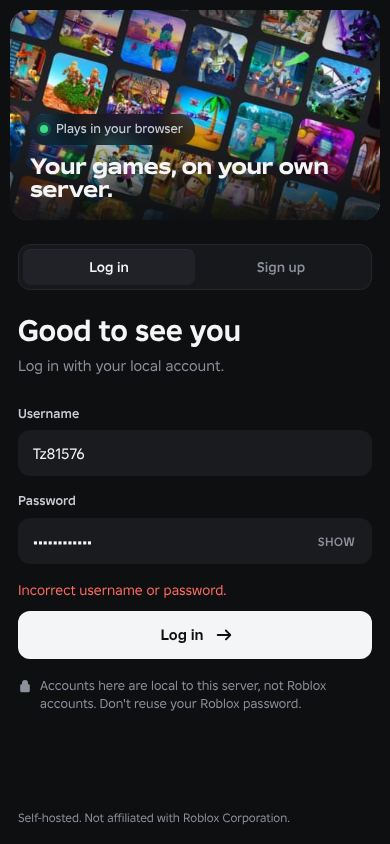
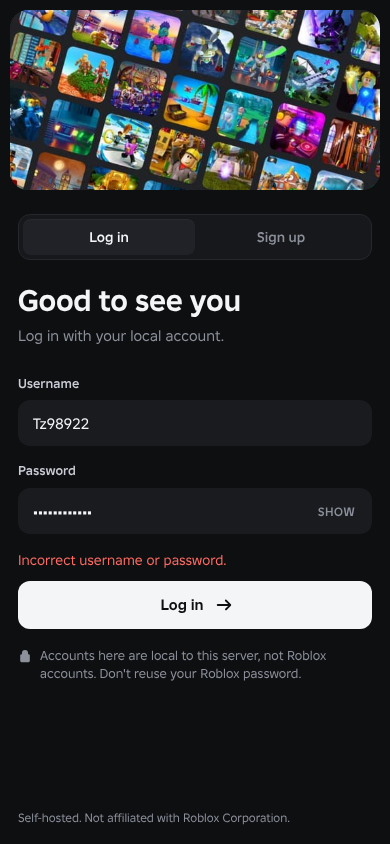
Login page: drop the wordmark and the photo caption
No logo, no headline or badge over the games collage: the frame shows only
the photo.

Claude-Session: https://claude.ai/code/session_01Wp2Bm4qWJKqm9CfQuMmByv

Changed region(s): [[0.0, 0.0, 0.9846, 0.8626], [0.8, 0.5853, 0.9231, 0.6469]]

diff --git a/webclient/pages/login.html b/webclient/pages/login.html
@@ -31,24 +31,13 @@
 
   /* A framed window onto the games collage, not a full-page backdrop. */
   .showcase { position: relative; overflow: hidden; border-radius: 22px; background: #1d1e22; isolation: isolate; }
-  .showcase::before { content: ""; position: absolute; inset: 0; z-index: -2; background: url(/pages/assets/games.jpg) 40% center / cover no-repeat;
+  .showcase::before { content: ""; position: absolute; inset: 0; background: url(/pages/assets/games.jpg) 40% center / cover no-repeat;
     animation: pan 30s ease-in-out infinite alternate; }
-  .showcase::after { content: ""; position: absolute; inset: 0; z-index: -1;
-    background: linear-gradient(180deg, rgba(14, 15, 17, .35) 0%, rgba(14, 15, 17, 0) 28%, rgba(14, 15, 17, 0) 50%, rgba(14, 15, 17, .92) 100%); }
   @keyframes pan { from { transform: scale(1.06) translate(-1.5%, 1%); } to { transform: scale(1.12) translate(1.5%, -1%); } }
   @media (prefers-reduced-motion: reduce) { .showcase::before { animation: none; } }
-  .showcase-copy { position: absolute; left: 0; right: 0; bottom: 0; padding: 36px 40px; }
-  .chip { display: inline-flex; align-items: center; gap: 8px; padding: 6px 12px 6px 10px; border-radius: 999px; background: rgba(14, 15, 17, .6);
-    backdrop-filter: blur(8px); -webkit-backdrop-filter: blur(8px); color: var(--soft); font-size: 13px; font-weight: 500; }
-  .chip i { width: 8px; height: 8px; border-radius: 50%; background: #3ddc84; box-shadow: 0 0 0 3px rgba(61, 220, 132, .2); }
-  .showcase h2 { margin: 16px 0 0; max-width: 520px; font: 800 clamp(28px, 3.2vw, 44px)/1.08 var(--display); }
-  .showcase p { margin: 12px 0 0; max-width: 440px; color: var(--soft); font-size: 16px; }
 
   /* Form column. */
   .side { display: flex; flex-direction: column; padding: 20px clamp(20px, 4vw, 56px) 14px; }
-  .top { display: flex; align-items: center; justify-content: space-between; }
-  .wordmark { color: var(--fg); text-decoration: none; font: 800 17px var(--display); letter-spacing: .02em; text-transform: uppercase; }
-  .wordmark span { color: var(--muted); }
   main { flex: 1; display: flex; align-items: center; justify-content: center; padding: 40px 0; }
   .form { width: 100%; max-width: 380px; }
 
@@ -95,13 +84,9 @@
 
   @media (max-width: 900px) {
     .page { grid-template-columns: 1fr; grid-template-rows: auto 1fr; padding: 10px; gap: 0; }
-    .showcase { height: 210px; border-radius: 18px; }
+    .showcase { height: 180px; border-radius: 18px; }
     .showcase::before { background-size: auto 140%; }
-    .showcase-copy { padding: 18px 20px; }
-    .showcase h2 { margin-top: 10px; font-size: 22px; }
-    .showcase p { display: none; }
     .side { padding: 0 8px 8px; }
-    .top { display: none; }
     main { align-items: flex-start; padding: 24px 0 28px; }
     .form { max-width: none; }
     .seg { margin-bottom: 24px; }
@@ -110,18 +95,9 @@
 </head>
 <body>
 <div class="page">
-  <section class="showcase" aria-hidden="true">
-    <div class="showcase-copy">
-      <span class="chip"><i></i>Plays in your browser</span>
-      <h2>Your games, on your own server.</h2>
-      <p>Play the experiences you love through the web client, with accounts that live right here.</p>
-    </div>
-  </section>
+  <section class="showcase" aria-hidden="true"></section>
 
   <div class="side">
-    <div class="top">
-      <a class="wordmark" href="/login">Web<span>Client</span></a>
-    </div>
     <main>
       <div class="form">
         <nav class="seg" aria-label="Account">
